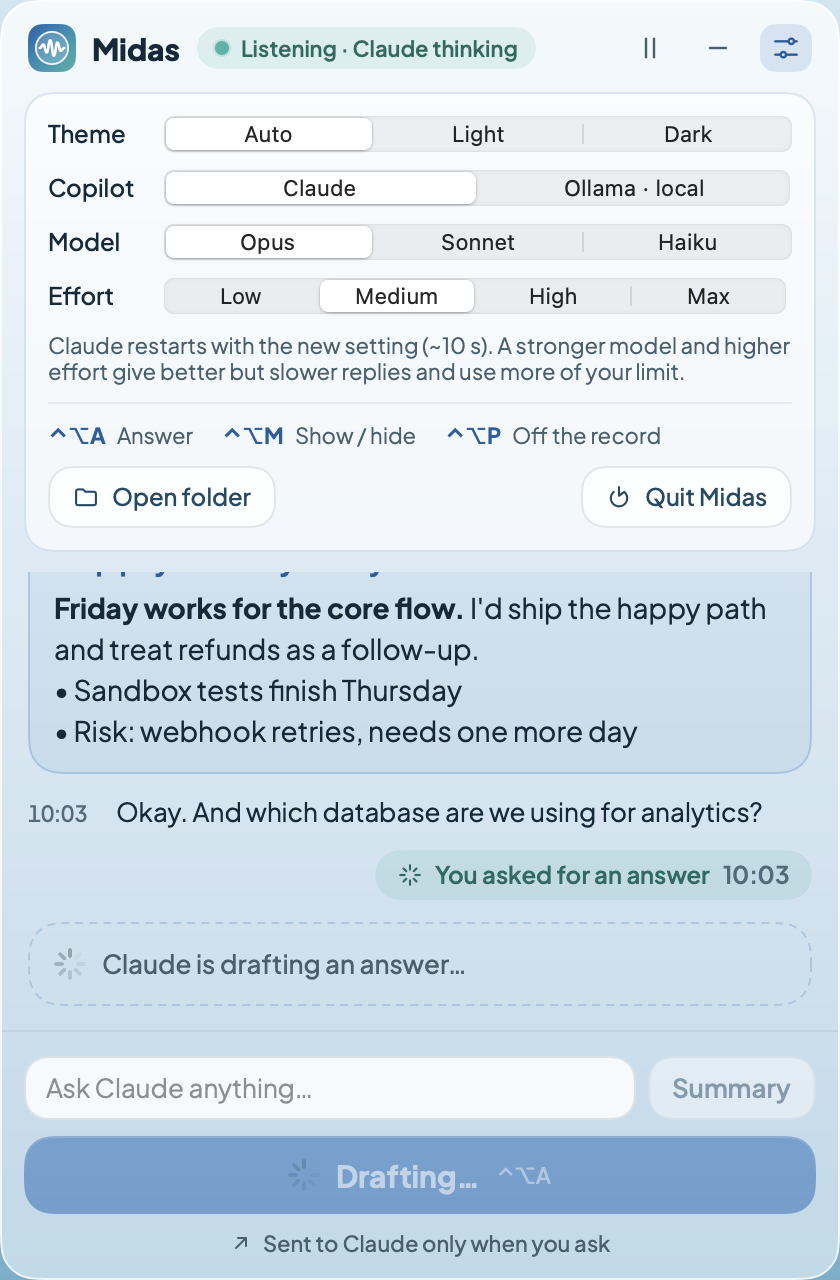
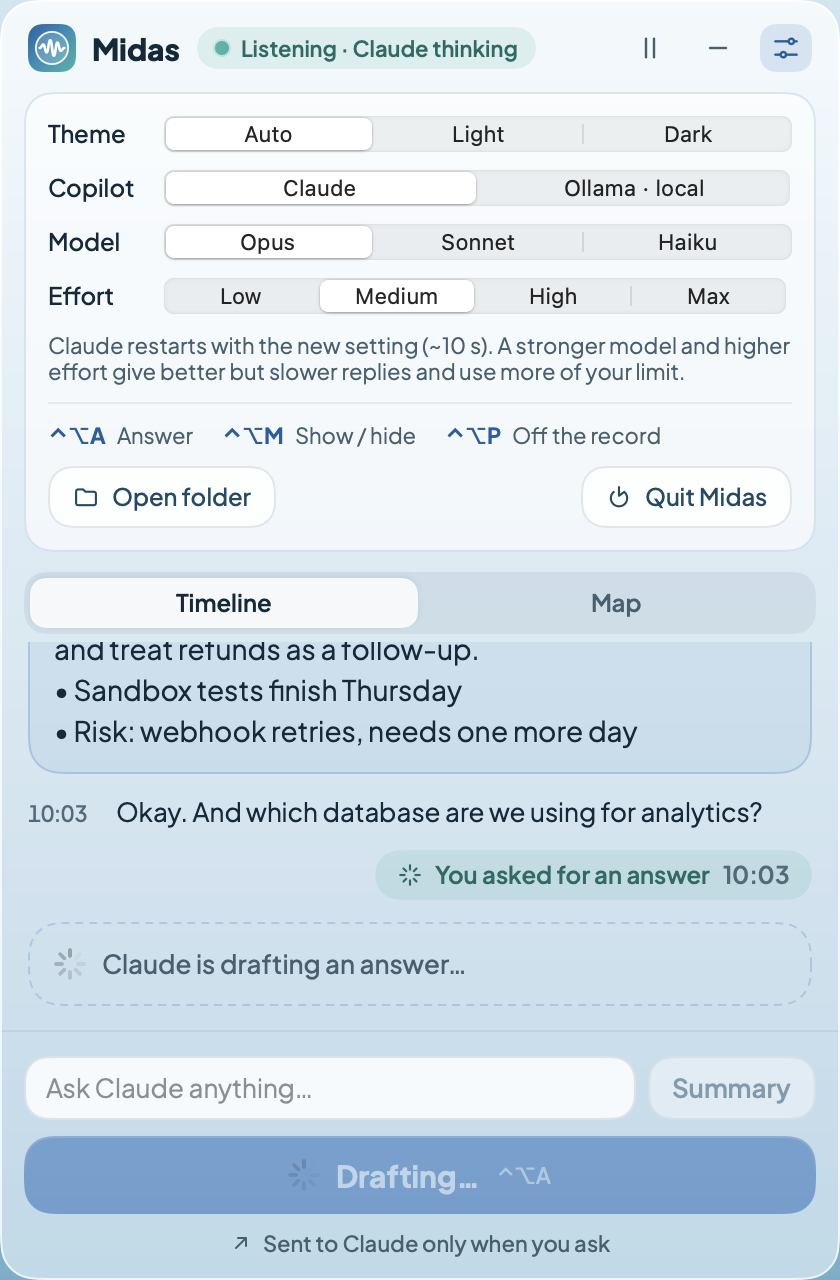
docs(site): add the meeting map section and refresh the panel pictures

Changed region(s): [[0.031, 0.4375, 0.8976, 0.5]]

diff --git a/docs/index.html b/docs/index.html
@@ -72,7 +72,8 @@
       "image": "https://onurkagan.github.io/midas-meeting-copilot/assets/icon-512.png",
       "screenshot": [
         "https://onurkagan.github.io/midas-meeting-copilot/assets/panel.png",
-        "https://onurkagan.github.io/midas-meeting-copilot/assets/panel-settings.png"
+        "https://onurkagan.github.io/midas-meeting-copilot/assets/panel-settings.png",
+        "https://onurkagan.github.io/midas-meeting-copilot/assets/map.png"
       ],
       "featureList": [
         "Real-time meeting transcription on device with Whisper large-v3-turbo (MLX)",
@@ -82,7 +83,9 @@
         "On-demand answers and meeting summaries from Claude via Claude Code and MCP",
         "Fully local answers from Ollama models, streamed as they are written",
         "Choice of Claude model and effort",
-        "Meeting notes saved as Markdown"
+        "Meeting notes saved as Markdown",
+        "Meeting map of topics, questions, answers, decisions and action items, saved as Markdown, JSON Canvas and PNG",
+        "Open action items carried over to the next meeting, and search across past meetings over MCP"
       ],
       "author": {
         "@type": "Person",
@@ -467,6 +470,7 @@
     <a class="logo" href="./" aria-label="Midas home"><img src="assets/icon-64.png" width="32" height="32" alt="">Midas</a>
     <div class="nav-links">
       <a href="#features">Features</a>
+      <a href="#map">Meeting map</a>
       <a href="#how-it-works">How it works</a>
       <a href="#compare">Compare</a>
       <a href="#faq">FAQ</a>
@@ -561,10 +565,31 @@
         <span class="pill">One timeline</span>
         <span class="pill">Turkish, English and more</span>
         <span class="pill">Meeting notes in Markdown</span>
+        <span class="pill">Search past meetings</span>
         <span class="pill">Answers from your codebase</span>
         <span class="pill">Menu bar app</span>
         <span class="pill">Global hotkeys</span>
       </div>
+    </div>
+  </section>
+
+  <section id="map" aria-labelledby="map-title">
+    <div class="wrap">
+      <div class="section-head">
+        <span class="kicker">Meeting map</span>
+        <h2 id="map-title">The whole meeting at a glance</h2>
+        <p>The Map tab gathers the topics, the questions put to you, your answers, decisions and action items as the meeting goes, each tied to the line it came from. Save it as Markdown, a JSON Canvas for Obsidian or a picture. Whatever is left open comes over to your next meeting.</p>
+      </div>
+      <figure>
+        <div class="frame">
+          <picture>
+            <source srcset="assets/map-dark.png" media="(prefers-color-scheme: dark)">
+            <img src="assets/map.png" width="1096" height="576" loading="lazy" decoding="async"
+                 alt="A meeting map: four topics around the meeting (payments launch, analytics database, launch comms, monitoring), each with its questions, answers, decisions, action items and risks">
+          </picture>
+        </div>
+        <figcaption>With a local model the map follows the meeting by itself; with Claude it updates when you ask.</figcaption>
+      </figure>
     </div>
   </section>
 
